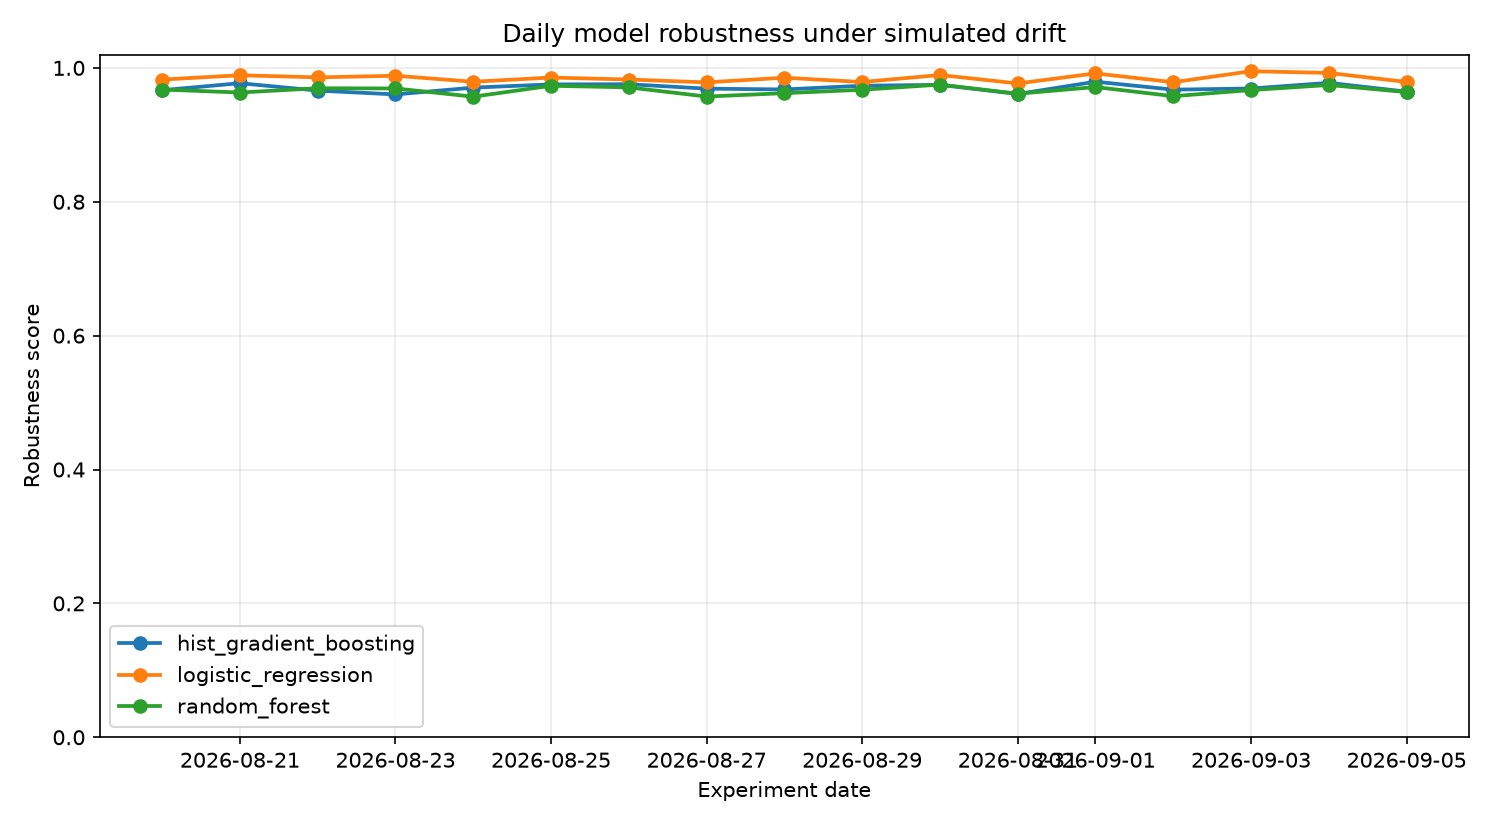
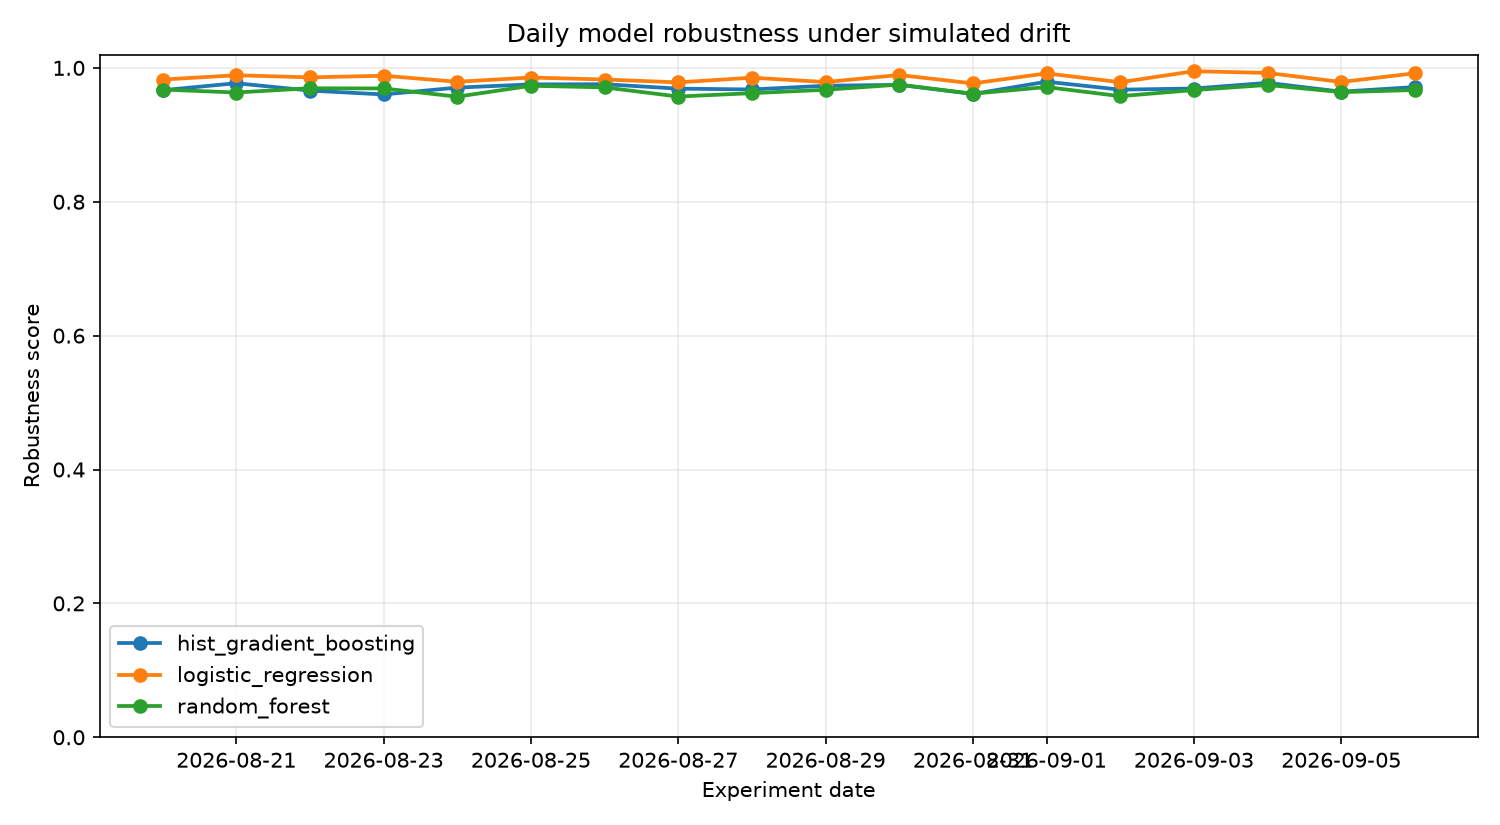
chore(observatory): daily drift benchmark 2026-09-06

Changed region(s): [[0.1533, 0.0303, 0.9507, 0.1212], [0.1227, 0.9091, 0.9813, 0.9697]]

diff --git a/reports/latest.md b/reports/latest.md
@@ -1,37 +1,37 @@
 # Latest DriftWatch Report
 
-**Experiment date:** 2026-09-05
+**Experiment date:** 2026-09-06
 
 ## Drift scenario
 
-- Drift strength: `0.325`
-- Scale factor: `1.033`
-- Noise ratio: `0.064`
-- Mask ratio: `0.016`
-- Affected features: mean concavity, radius error, area error, compactness error, worst radius, worst perimeter, worst fractal dimension
+- Drift strength: `0.337`
+- Scale factor: `0.966`
+- Noise ratio: `0.065`
+- Mask ratio: `0.017`
+- Affected features: mean perimeter, mean smoothness, mean concave points, mean symmetry, concave points error, worst radius, worst perimeter
 
 ## Model ranking
 
 | Rank | Model | Robustness | ROC-AUC | F1 | Balanced Acc. | Log Loss | Brier |
 |---:|---|---:|---:|---:|---:|---:|---:|
-| 1 | `logistic_regression` | 0.9789 | 0.9988 | 0.9665 | 0.9642 | 0.1098 | 0.0337 |
-| 2 | `hist_gradient_boosting` | 0.9645 | 0.9879 | 0.9524 | 0.9439 | 0.1703 | 0.0515 |
-| 3 | `random_forest` | 0.9638 | 0.9901 | 0.9469 | 0.9423 | 0.1621 | 0.0480 |
+| 1 | `logistic_regression` | 0.9920 | 0.9988 | 0.9907 | 0.9844 | 0.0623 | 0.0166 |
+| 2 | `hist_gradient_boosting` | 0.9713 | 0.9946 | 0.9636 | 0.9406 | 0.1125 | 0.0371 |
+| 3 | `random_forest` | 0.9670 | 0.9915 | 0.9593 | 0.9328 | 0.1385 | 0.0399 |
 
 ## Highest feature drift (PSI)
 
 | Feature | PSI |
 |---|---:|
-| area error | 0.7680 |
-| mean concavity | 0.5348 |
-| compactness error | 0.3097 |
-| worst fractal dimension | 0.2893 |
-| radius error | 0.2243 |
-| worst radius | 0.1706 |
-| worst concavity | 0.1651 |
-| texture error | 0.1499 |
+| mean concave points | 0.2139 |
+| fractal dimension error | 0.1876 |
+| texture error | 0.1846 |
+| worst perimeter | 0.1836 |
+| worst concavity | 0.1792 |
+| perimeter error | 0.1611 |
+| worst radius | 0.1528 |
+| mean perimeter | 0.1317 |
 
-**Mean PSI:** `0.1405`  
-**Max PSI:** `0.7680`
+**Mean PSI:** `0.0991`  
+**Max PSI:** `0.2139`
 
 _Generated automatically by the DriftWatch daily observatory pipeline._
